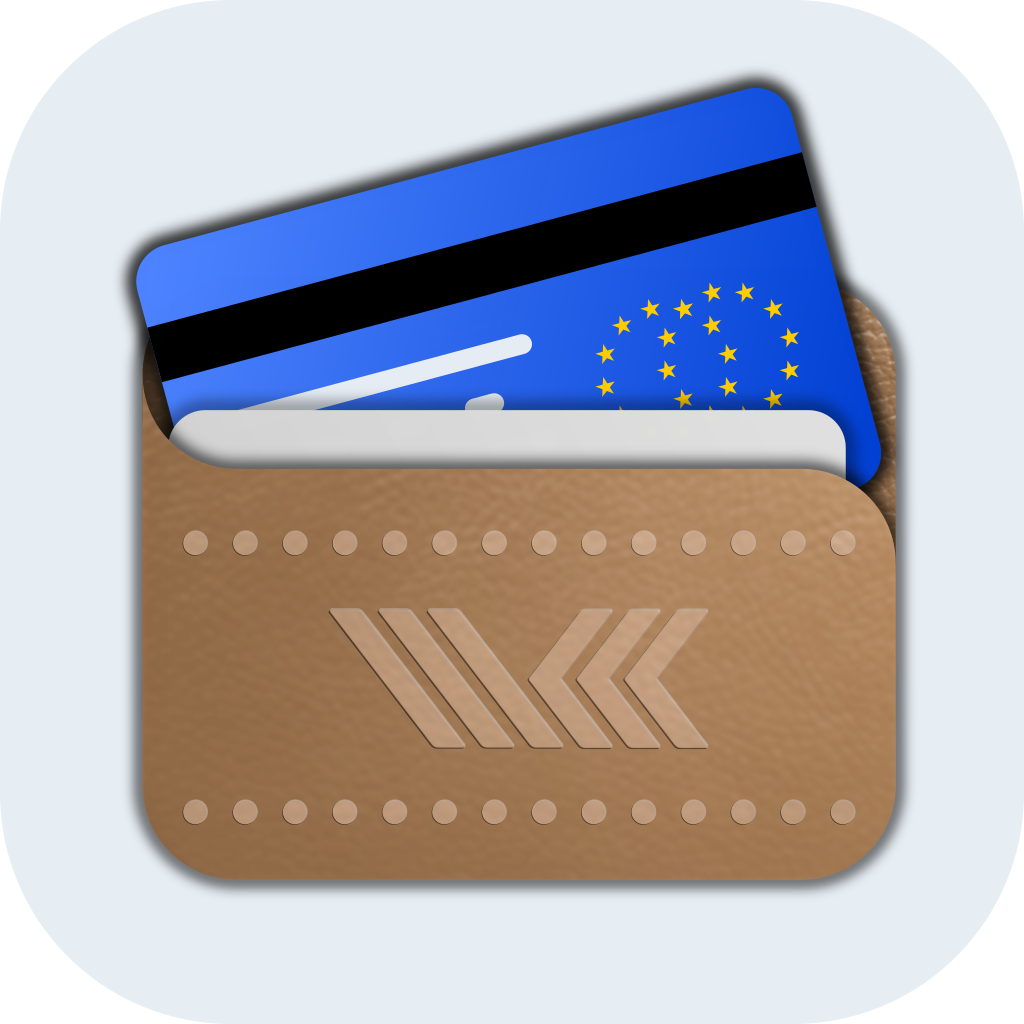
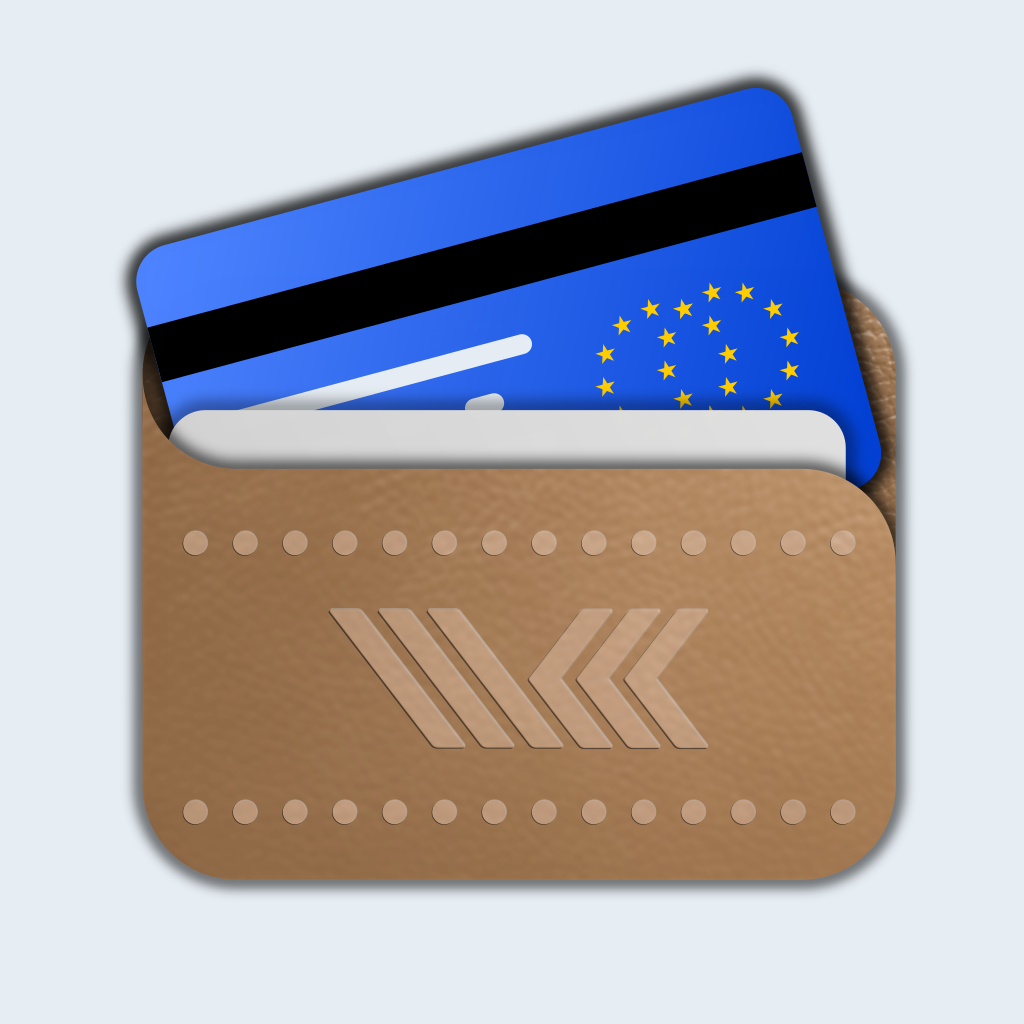
Update to Kotlin 2.1.0 (#142)
* Fix compilation

* add CLA checks

* Set package name of resources

* CI: Do not run on self-hosted machines

* declare API dependencies for ios export

* update libs

* Try XCode 16

* manual bundle id

* manually export xcf

* properly export framework manually

* CI: Use XCode 15.4

* CI: Use XCode 16.1, ldclassic

* Build: Set correct baseName of framework

* iOS: Remove unused code

* opaque ios Icon

* CI: Run on macOS 15

* Build: Remove unecessary dependencies

* fix version mess

* Fix NullPointerException during local build

---------

diff --git a/CONTRIBUTING.md b/CONTRIBUTING.md
@@ -1,0 +1,70 @@
+<div align="center">
+<img src="https://github.com/user-attachments/assets/13750466-7d65-492f-9250-420da5467d2d">
+
+# Contributing to A-SIT Plus Open Source
+
+</div>
+
+We are happy to receive external contributions!
+"Just" opening issues for encountered problems is greatly appreciated too!
+
+## Reporting Issues
+
+We welcome constructive feedback and enquiries of any kind! Just be sure to check existing issues first to avoid duplicates.
+Please try to be as precise as possible and provide a reproducer (where applicable).
+
+## Contributing Changes
+
+We expect the contributor to hold all rights to the contributions they are about to commit.
+We particularly condemn copyright infringement and expect contributors to respect this position and strictly observe applicable law!
+
+If you plan on contributing changes to this repository's contents, please
+
+1. Fork it
+2. Create a branch with a descriptive name (e.g. `feature/timeTravel` or `fix/gravitationalConstant`)
+3. Commit your changes to your branch
+4. Open a pull request
+
+We will then review the changes, provide feedback.
+Once we agree that the PR is ready, we will approve it, and your PR will be merged.
+
+### Coding Conventions
+
+We try to follow the [official Kotlin coding conventions](https://kotlinlang.org/docs/coding-conventions.html) and expect the same from external contributors.
+We don't have any automated checks in place and hence don't strictly enforce convention rules by hard, but we will manually check for obvious violations.
+To put it plain and simple:
+
+> When in Rome, do as the Romans do!
+
+### Contributor Licence Agreement
+
+You must sign the [A-SIT Plus Contributor Licence Agreement](https://a-sit-plus.github.io/ASP_CLA.pdf) (CLA) before we can review your PR.
+This is a one-time requirement and applies to all A-SIT Plus open-source projects, which indicate to require external contributors to sign the CLA (such as this project).
+If you want to know more about what a CLA is and why some legal entities require contributors to sign it, check out the [Wikipedia page about CLAs](https://en.wikipedia.org/wiki/Contributor_License_Agreement).
+
+Please download and fill out the [A-SIT Plus CLA](https://a-sit-plus.github.io/ASP_CLA.pdf).
+Either print, sign, and scan it or (preferably) use an eIDAS-compliant qualified electronic signature.
+When done, send the signed CLA to opensource@a-sit.at.
+
+Information on the processing of your personal data can be found in the [A-SIT Plus Privacy Policy](https://a-sit-plus.github.io/ASP_Privacy.pdf).
+Be sure to carefully read it and only sign the CLA if you accept the terms of this privacy policy! (Don't worry it's a light read!)
+You will receive a confirmation message once we have received and processed your CLA.
+
+You are, of course, free to start your work prior to signing the CLA, but the review process can only start after we have received a signed copy of the CLA.
+We employ automated checks as part of our CI pipeline to verify external contributors have signed indeed the CLA.
+Accordingly, if you do open a PR prior to signing the CLA, the pipeline will fail and a publicly visible message will appear, tagging all contributors who still need to sign the CLA, including instructions on how to proceed.
+Once all contributors have signed the CLA, we will re-run the automated CLA checks.
+If all checks pass (i.e. all contributors have signed the CLA) we will start reviewing your contributions.
+
+If you have any questions on this matter don't hesitate to contact opensource@a-sit.at!
+
+<br>
+
+<hr>
+<div align="center">
+
+Copyright &copy; 2024 A-SIT Plus GmbH, Seidlgasse 22 / Top 9, 1030 Vienna, Austria
+
+<img src="https://a-sit-plus.github.io/logo_kurzertext.svg" width="163" height="64">
+
+</div>
